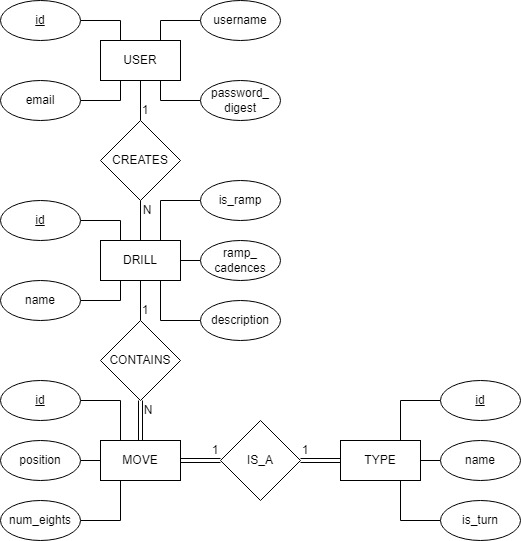
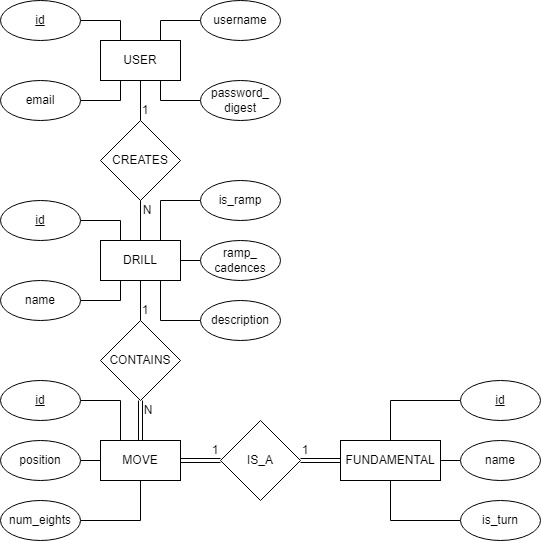
Relational model tweaks and documentation

diff --git a/README.md b/README.md
@@ -1,28 +1,78 @@
 # drill-writer
 
-*DrillWriter* is a web application and API that allows users to create, save, and view OSUMB fundamentals drills. It is implemented as a Ruby on Rails app, using PostgreSQL as its backend database.
+*DrillWriter* is a web application and API that allows users to create, save, and view OSUMB fundamentals drills. It is implemented as a Ruby on Rails app, using PostgreSQL as its backend database. The front-end is separate from the API, and is built on React with the addition of Bootstrap for styling.
+
+
+## Table of Contents
+
+* [Database Design](#database-design)
+    * [Tables and Attributes](#tables-and-attributes)
+* [API Endpoints](#api-endpoints)
+* [Authentication](#user-authentication)
+* [Deployment](#deployment-to-heroku)
+
+----
+
+# Database Design
+
+This app uses PostgreSQL for its database. This database stores information about the app's user accounts, the created drills, the moves in each drill, and the basic types of OSUMB fundamentals. Below is the entity-relationship diagram for the database (not including authentication info):
+
+![Entity-Relationship Diagram](/diagrams/entity_relationship_diagram.jpg)
+
+This translates to the following relational model, which was used when creating the schema:
+
+![Relational Model](/diagrams/relational_model.jpg)
+
+Note that the `Fundamentals` table is populated in [seeds.rb](/db/seeds.rb), and cannot be accessed by the API. This merely serves to store the names and types of each OSUMB fundamental (e.g., forward march, box TTR, right horn slide), which is referenced by the entries in the `Moves` table.
+
+In the future, I plan to introduce an administrator role who can access the `Fundamentals` table through the API.
+
+## Tables and Attributes
+
+Below is a brief description of each table and attribute as found in the relational model above:
+
+### `Users` - User accounts
+* `id:integer` -  Primary key, generated automatically by `ActiveRecord`
+* `username:string` - The user's display name
+* `email:string` - The user's email, used for account creation and confirmation (see [Authentication](#user-authentication) for more info)
+* `password_digest:string` - The encrypted hash of the user's password (see [Authentication](#user-authentication) for more info)
+
+### `Drills` - The OSUMB fundamentals drills that users can create
+* `id:integer` - Primary key, generated automatically by `ActiveRecord`
+* `name:string` - The name of the drill
+* `description:text` - The description of the drill
+* `is_ramp:boolean` - Whether the drill is a ramp drill or not. This affects how the drill is displayed.
+* `ramp_cadences:integer` - The number of ramp cadences; only used if the drill is a ramp drill. If it is a ramp drill and the value of this attribute is 0, it is interpreted as *"cadences ad infinitum"* when displaying the drill.
+* `user_id:integer` - Foreign key to the ID of the user that wrote the drill
+
+### `Moves` - The individual moves in a drill
+* `id:integer` - Primary key, generated automatically by `ActiveRecord`
+* `num_eights:integer` - The number of "eights" (i.e., number of 5-yard increments) that the move lasts; only used if the move is not a turn (e.g., forward march, left lateral slide)
+* `position:integer` - The relative position of the move within the drill it is a part of.
+* `drill_id:integer` - Foreign key to the ID of the drill that contains the move
+* `fundamental_id:integer` - Foreign key to the ID of the fundamental that the move represents
+
+### `Fundamentals` - OSUMB fundamentals building blocks. Only modified during initial database seeding.
+* `id:integer` - Primary key, generated automatically by `ActiveRecord`
+* `name:string` - The name of the fundamental
+* `is_turn:boolean` - Whether the move represents a turn (e.g., right flank, box TTR) or not (e.g., forward march, left lateral slide)
 
 ---
 
-This README would normally document whatever steps are necessary to get the
-application up and running.
+# API Endpoints
 
-Things you may want to cover:
+All API endpoints are prefixed with `/api/v1/...`. This separates the URLs of the back-end API (developed in Rails) from the URLs of the front-end views (developed in React).
 
-* Ruby version
+//TODO - Documentation for each endpoint
 
-* System dependencies
+---
 
-* Configuration
+# User Authentication
 
-* Database creation
+//TODO - Describe user authentication with `BCrypt`
 
-* Database initialization
+---
 
-* How to run the test suite
+# Deployment to Heroku
 
-* Services (job queues, cache servers, search engines, etc.)
-
-* Deployment instructions
-
-* ...
+//TODO - When the whole thing is done and deployed, describe how I did it
